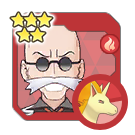
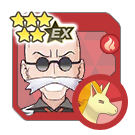
Add v2.58.0

Changed region(s): [[0.2963, 0.0889, 0.5926, 0.3556], [0.2963, 0.0889, 0.3259, 0.1185]]

diff --git a/js/syncpairs.js b/js/syncpairs.js
@@ -987,8 +987,8 @@ export const SYNCPAIRS = [
 		"pokemonWeak": "Rock",
 		"syncPairRole": "Tech",
 		"syncPairRoleEX": "",
-		"syncPairEXPose": false,
-		"syncPairEXColor": false,
+		"syncPairEXPose": true,
+		"syncPairEXColor": true,
 		"syncPairSuperawakening": false,
 		"syncPairRarity": "4",
 		"releaseDate": "2019-08-29",
@@ -996,7 +996,8 @@ export const SYNCPAIRS = [
 		"syncPairRegion": "Kanto",
 		"images": [
 			"Sync Pairs/Blaine_0078_4.png",
-			"Sync Pairs/Blaine_0078_5.png"
+			"Sync Pairs/Blaine_0078_5.png",
+			"Sync Pairs/Blaine_0078_EX.png"
 		],
 		"themes": [
 			"Fire",
@@ -3938,6 +3939,7 @@ export const SYNCPAIRS = [
 			"Rock Lover"
 		],
 		"tags": [
+			"Multiple Pokemon",
 			"isMan",
 			"First Unit",
 			"SyncMovePhysical"
@@ -4111,6 +4113,49 @@ export const SYNCPAIRS = [
 		],
 		"internalTrainerName": "ch0016_00_huuro",
 		"internalPokemonName": "pm0521_01_kenhallow"
+	},
+	{
+		"dexNumber": "041",
+		"trainerName": "Skyla",
+		"trainerAlt": "Summer 2025",
+		"pokemonNumber": "0189",
+		"pokemonName": "Jumpluff",
+		"pokemonGender": "♀",
+		"pokemonForm": [],
+		"pokemonType": "Grass",
+		"pokemonWeak": "Ice",
+		"syncPairRole": "Sprint",
+		"syncPairRoleEX": "Strike (Special)",
+		"syncPairEXPose": true,
+		"syncPairEXColor": true,
+		"syncPairSuperawakening": false,
+		"syncPairRarity": "5",
+		"releaseDate": "2025-07-02",
+		"syncPairAcquisition": "Seasonal Scout",
+		"syncPairRegion": "Unova",
+		"images": [
+			"Sync Pairs/Skyla_0189_5.png",
+			"Sync Pairs/Skyla_0189_EX.png"
+		],
+		"themes": [
+			"Grass",
+			"Unova",
+			"Gym Leader",
+			"Seasonal Outfit",
+			"Undella Town"
+		],
+		"tags": [
+			"Summer",
+			"Buddy Move",
+			"Limited",
+			"Weather",
+			"Unique Costume",
+			"Multiple Units",
+			"isWoman",
+			"SyncMoveSpecial"
+		],
+		"internalTrainerName": "ch0016_42_huuro",
+		"internalPokemonName": "pm0189_00_watacco"
 	},
 	{
 		"dexNumber": "042",
@@ -7946,6 +7991,8 @@ export const SYNCPAIRS = [
 		"tags": [
 			"Limited",
 			"Multiple Units",
+			"Multiple Pokemon",
+			"Multiple Pairs",
 			"isMan",
 			"Legendary",
 			"Villain Arc",
@@ -7999,6 +8046,54 @@ export const SYNCPAIRS = [
 		],
 		"internalTrainerName": "ch0112_00_hibiki",
 		"internalPokemonName": "pm0250_00_houou"
+	},
+	{
+		"dexNumber": "075",
+		"trainerName": "Ethan",
+		"trainerAlt": "Arc Suit",
+		"pokemonNumber": "0249",
+		"pokemonName": "Lugia",
+		"pokemonGender": "",
+		"pokemonForm": [],
+		"pokemonType": "Flying",
+		"pokemonWeak": "Rock",
+		"syncPairRole": "Multi",
+		"syncPairRoleEX": "Field",
+		"syncPairEXPose": true,
+		"syncPairEXColor": true,
+		"syncPairSuperawakening": false,
+		"syncPairRarity": "5",
+		"releaseDate": "2025-07-17",
+		"syncPairAcquisition": "Arc Suit Fair Scout",
+		"syncPairRegion": "Johto",
+		"images": [
+			"Sync Pairs/Ethan_0249_2_5.png",
+			"Sync Pairs/Ethan_0249_2_EX.png"
+		],
+		"themes": [
+			"Flying",
+			"Johto",
+			"Main Character",
+			"Arc Suit",
+			"Pokéathlete"
+		],
+		"tags": [
+			"Legendary",
+			"Grid5",
+			"Buddy Move",
+			"Limited",
+			"Wish ZoneEX",
+			"Unique Costume",
+			"Multiple Units",
+			"Multiple Pokemon",
+			"Multiple Pairs",
+			"isMan",
+			"Rebuff",
+			"Song Key",
+			"SyncMoveSpecial"
+		],
+		"internalTrainerName": "ch0112_90_hibiki",
+		"internalPokemonName": "pm0249_00_lugia"
 	},
 	{
 		"dexNumber": "076",
@@ -8749,6 +8844,51 @@ export const SYNCPAIRS = [
 		],
 		"internalTrainerName": "ch0091_00_shirona",
 		"internalPokemonName": "pm0442_00_mikaruge"
+	},
+	{
+		"dexNumber": "078",
+		"trainerName": "Cynthia",
+		"trainerAlt": "Summer 2025",
+		"pokemonNumber": "0350",
+		"pokemonName": "Milotic",
+		"pokemonGender": "♀",
+		"pokemonForm": [],
+		"pokemonType": "Water",
+		"pokemonWeak": "Grass",
+		"syncPairRole": "Support",
+		"syncPairRoleEX": "Field",
+		"syncPairEXPose": true,
+		"syncPairEXColor": true,
+		"syncPairSuperawakening": false,
+		"syncPairRarity": "5",
+		"releaseDate": "2025-06-30",
+		"syncPairAcquisition": "Seasonal Scout",
+		"syncPairRegion": "Sinnoh",
+		"images": [
+			"Sync Pairs/Cynthia_0350_5.png",
+			"Sync Pairs/Cynthia_0350_EX.png"
+		],
+		"themes": [
+			"Water",
+			"Sinnoh",
+			"Champion",
+			"Seasonal Outfit",
+			"Undella Town"
+		],
+		"tags": [
+			"Summer",
+			"Buddy Move",
+			"Limited",
+			"Weather",
+			"Region Circle",
+			"Unique Costume",
+			"Multiple Units",
+			"Multiple Pokemon",
+			"isWoman",
+			"SyncMoveSpecial"
+		],
+		"internalTrainerName": "ch0091_40_shirona",
+		"internalPokemonName": "pm0350_01_milokaross"
 	},
 	{
 		"dexNumber": "079",
@@ -10127,6 +10267,7 @@ export const SYNCPAIRS = [
 			"Multiple Units",
 			"Song Key",
 			"First Unit",
+			"Multiple Pokemon",
 			"Grid3",
 			"GridExpansion",
 			"SyncMoveSpecial"
@@ -10221,6 +10362,7 @@ export const SYNCPAIRS = [
 			"GridExpansion",
 			"Song Key",
 			"Multiple Pokemon",
+			"Multiple Pairs",
 			"First Unit",
 			"SyncMovePhysical"
 		],
@@ -10347,6 +10489,8 @@ export const SYNCPAIRS = [
 			"Limited",
 			"Weather",
 			"Region Circle",
+			"Grid5",
+			"GridExpansion",
 			"GridMega",
 			"Multiple Units",
 			"Multiple Pokemon",
@@ -10398,6 +10542,54 @@ export const SYNCPAIRS = [
 		],
 		"internalTrainerName": "ch0133_00_shilver",
 		"internalPokemonName": "pm0169_00_crobat"
+	},
+	{
+		"dexNumber": "091",
+		"trainerName": "Silver",
+		"trainerAlt": "Arc Suit",
+		"pokemonNumber": "0250|2",
+		"pokemonName": "Ho-Oh",
+		"pokemonGender": "",
+		"pokemonForm": [],
+		"pokemonType": "Fire",
+		"pokemonWeak": "Water",
+		"syncPairRole": "Multi",
+		"syncPairRoleEX": "Support",
+		"syncPairEXPose": true,
+		"syncPairEXColor": true,
+		"syncPairSuperawakening": false,
+		"syncPairRarity": "5",
+		"releaseDate": "2025-07-15",
+		"syncPairAcquisition": "Arc Suit Fair Scout",
+		"syncPairRegion": "Johto",
+		"images": [
+			"Sync Pairs/Silver_0250_2_5.png",
+			"Sync Pairs/Silver_0250_2_EX.png"
+		],
+		"themes": [
+			"Fire",
+			"Johto",
+			"Rival",
+			"Arc Suit",
+			"Battle Partner"
+		],
+		"tags": [
+			"Legendary",
+			"Grid5",
+			"Buddy Move",
+			"Limited",
+			"WeatherEX",
+			"Unique Costume",
+			"Multiple Units",
+			"Multiple Pokemon",
+			"Multiple Pairs",
+			"isMan",
+			"Rebuff",
+			"Song Key",
+			"SyncMovePhysical"
+		],
+		"internalTrainerName": "ch0133_91_shilver",
+		"internalPokemonName": "pm0250_00_houou"
 	},
 	{
 		"dexNumber": "092",
@@ -12726,6 +12918,8 @@ export const SYNCPAIRS = [
 			"Battle Partner"
 		],
 		"tags": [
+			"Grid3",
+			"GridExpansion",
 			"isMan",
 			"Multiple Units",
 			"Multiple Pokemon",
@@ -14377,6 +14571,47 @@ export const SYNCPAIRS = [
 		],
 		"internalTrainerName": "ch0247_90_dande",
 		"internalPokemonName": "pm0006_00_lizardon"
+	},
+	{
+		"dexNumber": "118",
+		"trainerName": "Leon",
+		"trainerAlt": "Lodge",
+		"pokemonNumber": "0537",
+		"pokemonName": "Seismitoad",
+		"pokemonGender": "♀",
+		"pokemonForm": [],
+		"pokemonType": "Ground",
+		"pokemonWeak": "Grass",
+		"syncPairRole": "Support",
+		"syncPairRoleEX": "",
+		"syncPairEXPose": true,
+		"syncPairEXColor": false,
+		"syncPairSuperawakening": false,
+		"syncPairRarity": "4",
+		"releaseDate": "2025-07-01",
+		"syncPairAcquisition": "Trainer Lodge Exchange",
+		"syncPairRegion": "Galar",
+		"images": [
+			"Sync Pairs/Leon_0537_4.png",
+			"Sync Pairs/Leon_0537_5.png",
+			"Sync Pairs/Leon_0537_EX.png"
+		],
+		"themes": [
+			"Ground",
+			"Galar",
+			"Champion",
+			"Battle Facility Foe",
+			"Free Spirit"
+		],
+		"tags": [
+			"Limited",
+			"Multiple Units",
+			"Multiple Pokemon",
+			"isMan",
+			"SyncMovePhysical"
+		],
+		"internalTrainerName": "ch0247_00_dande",
+		"internalPokemonName": "pm0537_00_gamageroge"
 	},
 	{
 		"dexNumber": "119",
@@ -22729,4 +22964,4 @@ const P = {
 }
 
 
-export const VERSION = "v2.57.0";
+export const VERSION = "v2.58.0";

diff --git a/js/news.js b/js/news.js
@@ -1,5 +1,9 @@
 export const NEWS = [
 	{
+		"date": "2025-06-26",
+		"info" : "Add v2.58.0"
+	},
+	{
 		"date": "2025-05-28",
 		"info" : "Add v2.57.0"
 	},
